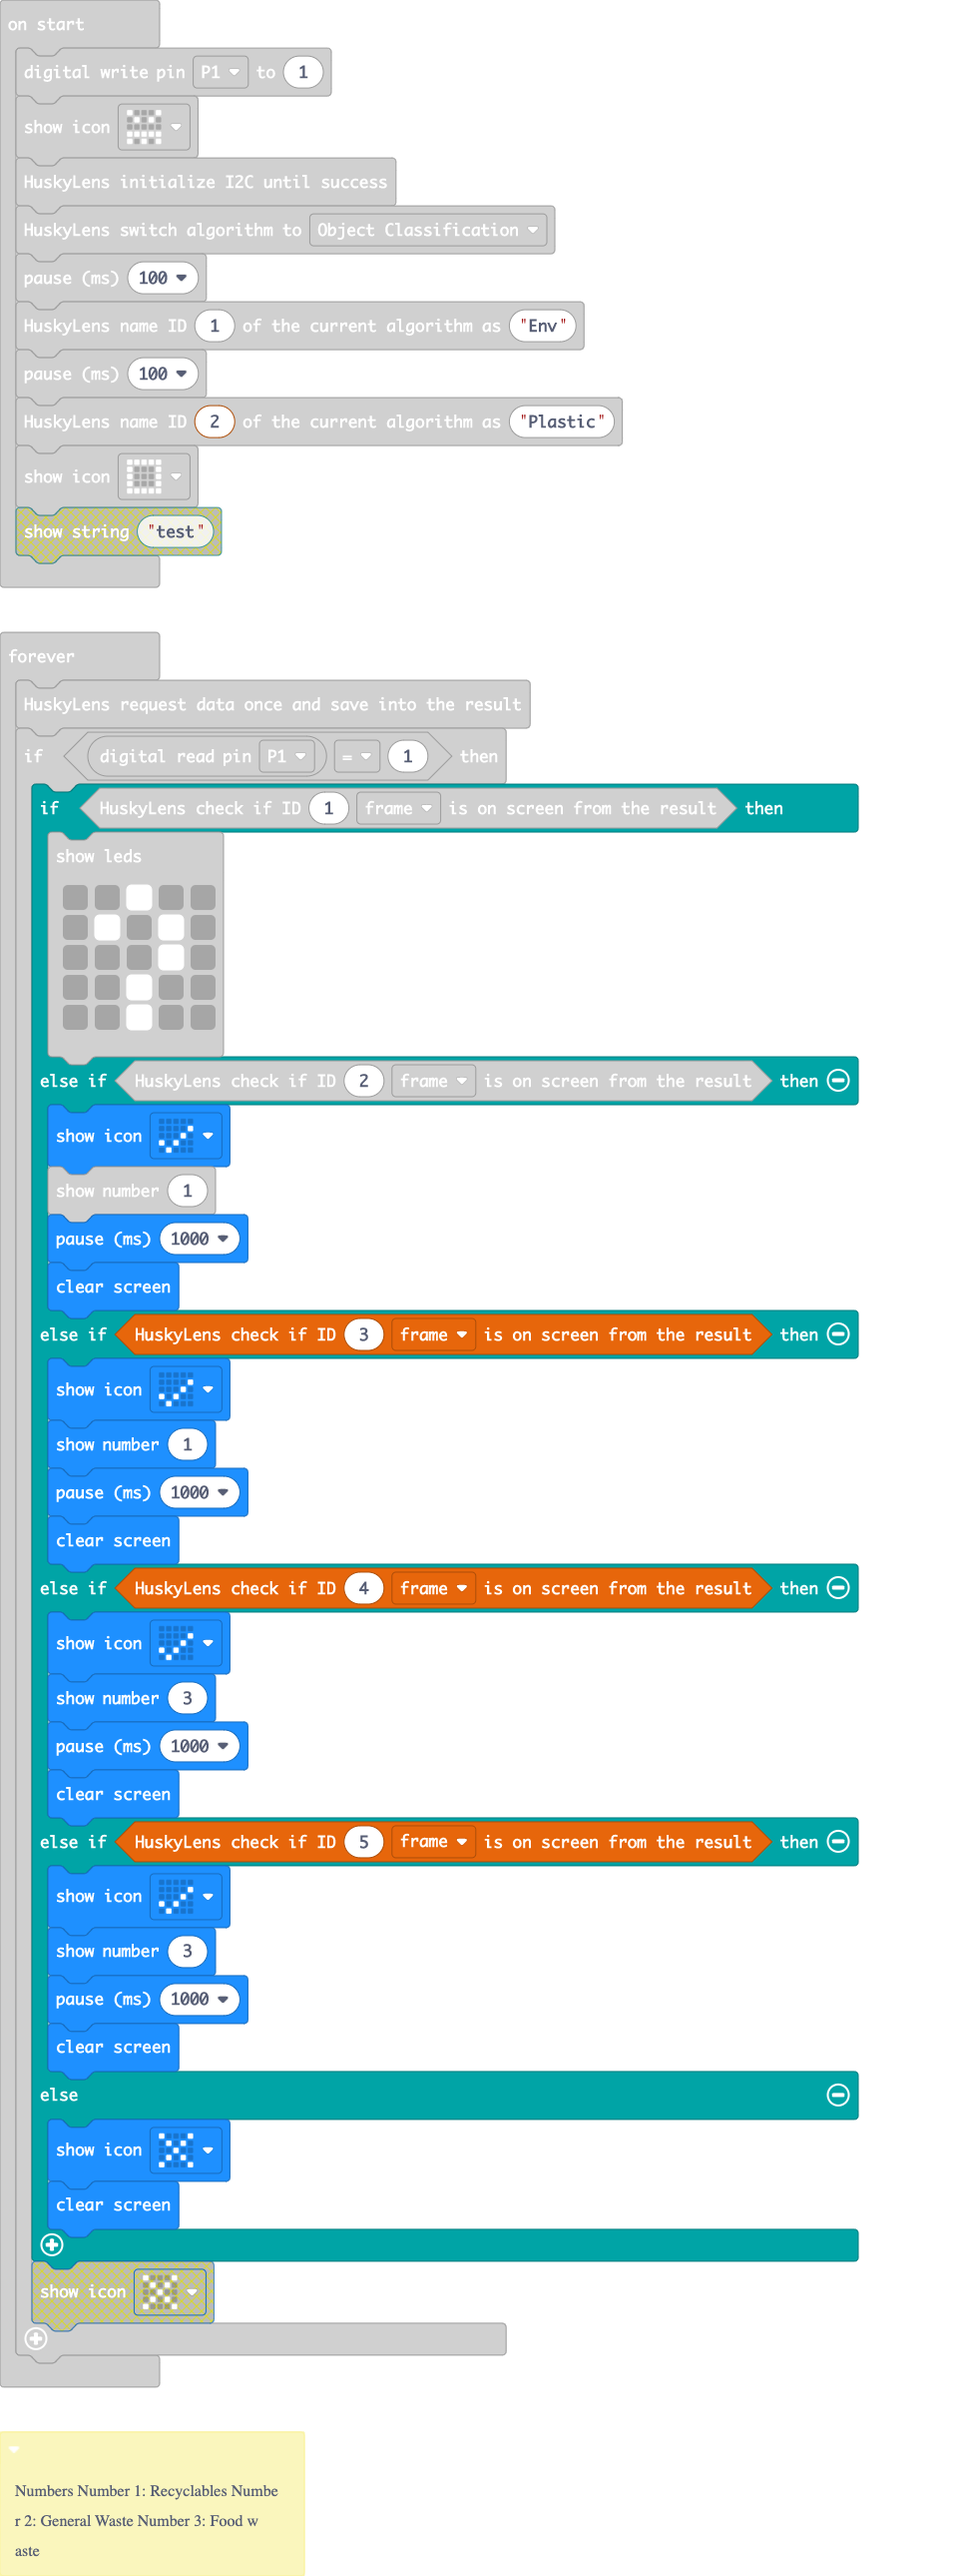
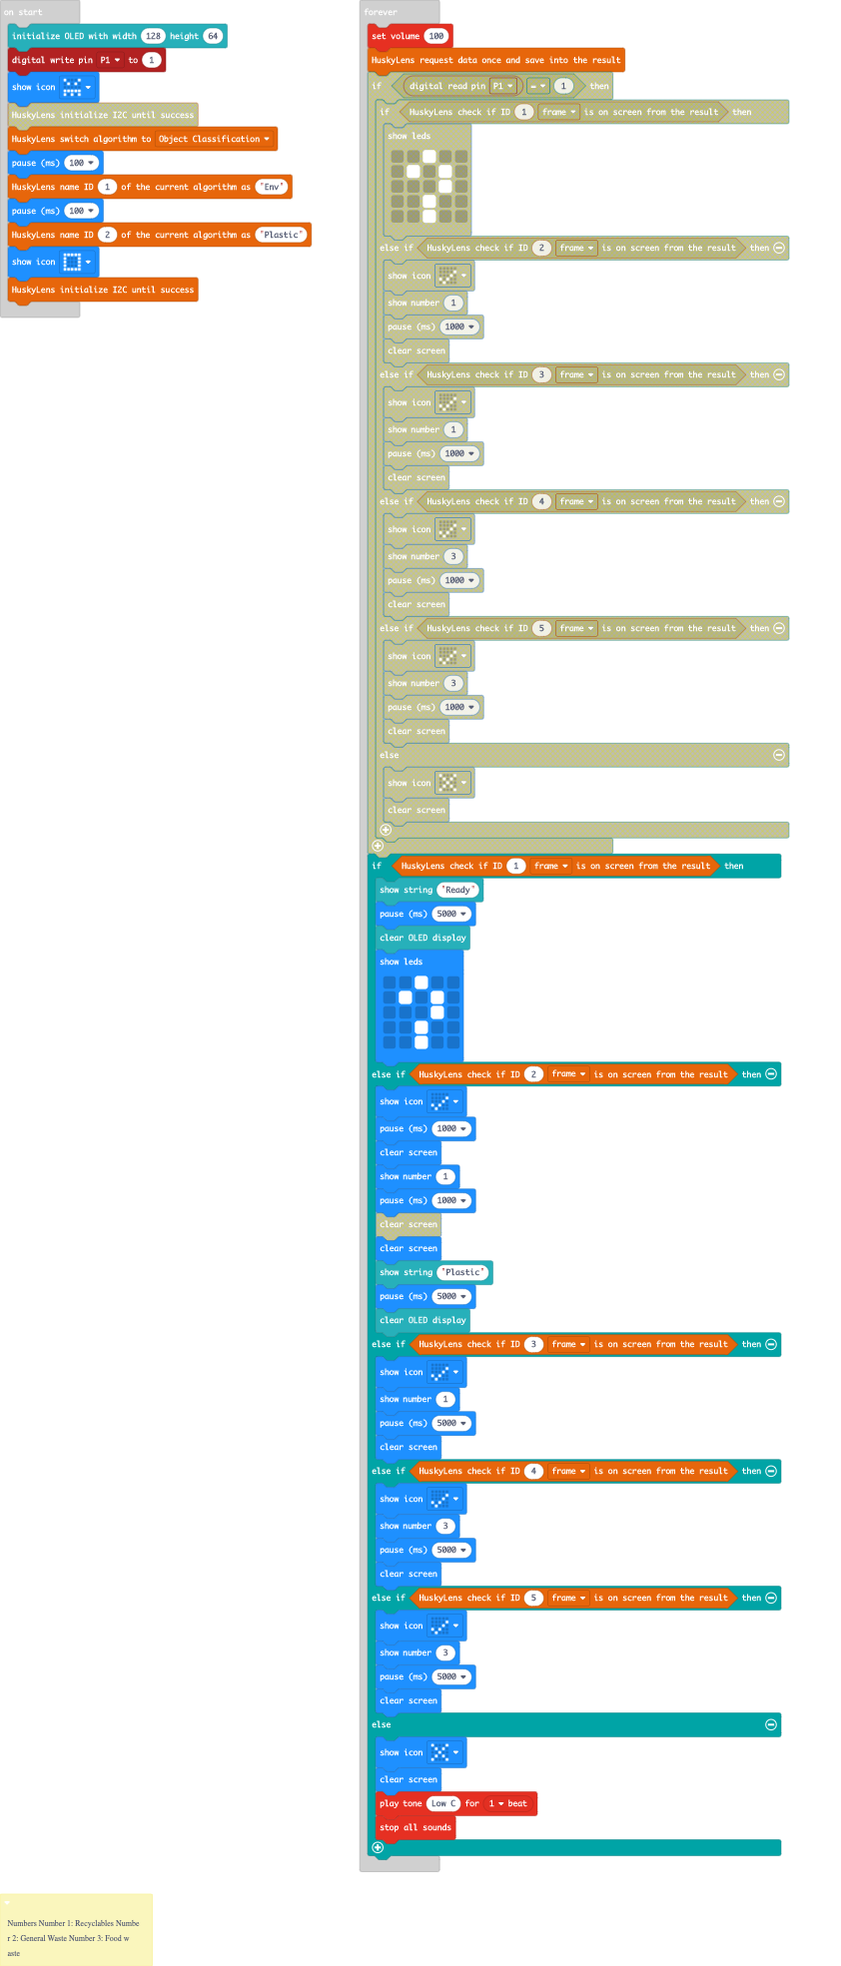
brand new line of code

diff --git a/main.ts b/main.ts
@@ -7,6 +7,7 @@
  * 
  * Number 3: Food waste
  */
+OLED.init(128, 64)
 pins.digitalWritePin(DigitalPin.P1, 1)
 basic.showIcon(IconNames.Angry)
 huskylens.initI2c()
@@ -17,39 +18,48 @@ basic.pause(100)
 huskylens.writeName(2, "Plastic")
 basic.showIcon(IconNames.Square)
 basic.forever(function () {
+    music.setVolume(100)
     huskylens.request()
-    if (pins.digitalReadPin(DigitalPin.P1) == 1) {
-        if (huskylens.isAppear(1, HUSKYLENSResultType_t.HUSKYLENSResultBlock)) {
-            basic.showLeds(`
-                . . # . .
-                . # . # .
-                . . . # .
-                . . # . .
-                . . # . .
-                `)
-        } else if (huskylens.isAppear(2, HUSKYLENSResultType_t.HUSKYLENSResultBlock)) {
-            basic.showIcon(IconNames.Yes)
-            basic.showNumber(1)
-            basic.pause(1000)
-            basic.clearScreen()
-        } else if (huskylens.isAppear(3, HUSKYLENSResultType_t.HUSKYLENSResultBlock)) {
-            basic.showIcon(IconNames.Yes)
-            basic.showNumber(1)
-            basic.pause(1000)
-            basic.clearScreen()
-        } else if (huskylens.isAppear(4, HUSKYLENSResultType_t.HUSKYLENSResultBlock)) {
-            basic.showIcon(IconNames.Yes)
-            basic.showNumber(3)
-            basic.pause(1000)
-            basic.clearScreen()
-        } else if (huskylens.isAppear(5, HUSKYLENSResultType_t.HUSKYLENSResultBlock)) {
-            basic.showIcon(IconNames.Yes)
-            basic.showNumber(3)
-            basic.pause(1000)
-            basic.clearScreen()
-        } else {
-            basic.showIcon(IconNames.No)
-            basic.clearScreen()
-        }
+    if (huskylens.isAppear(1, HUSKYLENSResultType_t.HUSKYLENSResultBlock)) {
+        OLED.writeStringNewLine("Ready")
+        basic.pause(5000)
+        OLED.clear()
+        basic.showLeds(`
+            . . # . .
+            . # . # .
+            . . . # .
+            . . # . .
+            . . # . .
+            `)
+    } else if (huskylens.isAppear(2, HUSKYLENSResultType_t.HUSKYLENSResultBlock)) {
+        basic.showIcon(IconNames.Yes)
+        basic.pause(1000)
+        basic.clearScreen()
+        basic.showNumber(1)
+        basic.pause(1000)
+        basic.clearScreen()
+        OLED.writeStringNewLine("Plastic")
+        basic.pause(5000)
+        OLED.clear()
+    } else if (huskylens.isAppear(3, HUSKYLENSResultType_t.HUSKYLENSResultBlock)) {
+        basic.showIcon(IconNames.Yes)
+        basic.showNumber(1)
+        basic.pause(5000)
+        basic.clearScreen()
+    } else if (huskylens.isAppear(4, HUSKYLENSResultType_t.HUSKYLENSResultBlock)) {
+        basic.showIcon(IconNames.Yes)
+        basic.showNumber(3)
+        basic.pause(5000)
+        basic.clearScreen()
+    } else if (huskylens.isAppear(5, HUSKYLENSResultType_t.HUSKYLENSResultBlock)) {
+        basic.showIcon(IconNames.Yes)
+        basic.showNumber(3)
+        basic.pause(5000)
+        basic.clearScreen()
+    } else {
+        basic.showIcon(IconNames.No)
+        basic.clearScreen()
+        music.playTone(131, music.beat(BeatFraction.Whole))
+        music.stopAllSounds()
     }
 })
